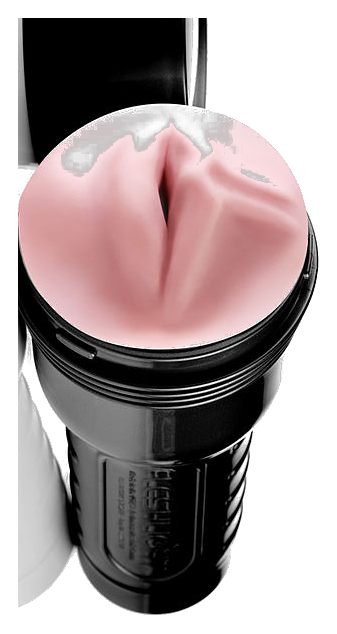
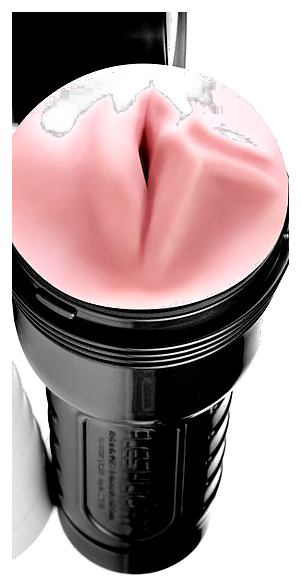
Fix cross-platform game physics

diff --git a/index.html b/index.html
@@ -295,6 +295,7 @@
         const penisResetLength = 15;
         const minimumPenisLength = 0;
         const fleshlightEventDurationMs = 3000;
+        const fleshlightEyePopDurationMs = 320;
         const fixedStepMs = 1000 / 60;
         const maxFrameDeltaMs = 100;
         const penisBaseLength = 15;
@@ -813,10 +814,11 @@
 
         function startFleshlightEvent(bird) {
             bird.eventState = {
+                phase: 'stroke',
                 elapsedMs: 0,
                 durationMs: fleshlightEventDurationMs,
                 strokePhase: 0.18,
-                strokeSpeed: 0.14,
+                strokeSpeed: 0.28,
                 lockedY: bird.y,
                 lockedRotation: bird.rotation
             };
@@ -831,20 +833,36 @@
             }
 
             bird.eventState.elapsedMs += fixedStepMs;
-            bird.eventState.strokeSpeed = Math.min(1.45, bird.eventState.strokeSpeed + 0.0085);
-            bird.eventState.strokePhase += bird.eventState.strokeSpeed;
             bird.y = bird.eventState.lockedY;
             bird.rotation = bird.eventState.lockedRotation;
             bird.velocity = 0;
 
+            if (bird.eventState.phase === 'stroke') {
+                bird.eventState.strokeSpeed = Math.min(2.9, bird.eventState.strokeSpeed + 0.017);
+                bird.eventState.strokePhase += bird.eventState.strokeSpeed;
+
+                if (bird.eventState.elapsedMs >= bird.eventState.durationMs) {
+                    bird.eventState.phase = 'eye-pop';
+                    bird.eventState.elapsedMs = 0;
+                    bird.eventState.durationMs = fleshlightEyePopDurationMs;
+                    bird.penisLength = penisResetLength;
+                    resetPenisRope(bird);
+                }
+            } else if (bird.eventState.elapsedMs >= bird.eventState.durationMs) {
+                bird.eventState = null;
+            }
+
             updateParticles(bird);
             updateJiggle(bird);
+        }
 
-            if (bird.eventState.elapsedMs >= bird.eventState.durationMs) {
-                bird.eventState = null;
-                bird.penisLength = penisResetLength;
-                resetPenisRope(bird);
+        function getBirdEyeScale(bird) {
+            if (!bird.eventState || bird.eventState.phase !== 'eye-pop') {
+                return 1;
             }
+
+            const progress = Math.min(1, bird.eventState.elapsedMs / bird.eventState.durationMs);
+            return 1 + Math.sin(progress * Math.PI) * 0.85;
         }
 
         function tryCollectFleshlight(bird) {
@@ -889,9 +907,7 @@
 
             const penisWidth = 8;
             const ballRadius = 8;
-            const eyeScale = bird.eventState
-                ? 1 + Math.sin(Math.min(bird.eventState.elapsedMs / 450, 1) * Math.PI) * 0.85
-                : 1;
+            const eyeScale = getBirdEyeScale(bird);
 
             // Calculate rope physics positions
             const ballsLength = 8; // Shorter - closer to body
@@ -955,7 +971,7 @@
             ctx.arc(tipX, tipY, penisWidth / 2 + 2, 0, Math.PI * 2);
             ctx.fill();
 
-            if (bird.eventState) {
+            if (bird.eventState && bird.eventState.phase === 'stroke') {
                 const progress = bird.eventState.elapsedMs / bird.eventState.durationMs;
                 const strokeT = Math.min(
                     0.9,
@@ -1042,13 +1058,23 @@
             bird.penisLength = Math.max(minimumPenisLength, bird.penisLength + delta);
         }
 
-        function createFleshlight(topHeight) {
+        function createFleshlight(viewportHeight, pipeSpacing) {
+            const horizontalMargin = 76;
+            const minOffsetX = pipeWidth + horizontalMargin;
+            const maxOffsetX = Math.max(minOffsetX + 20, pipeSpacing - horizontalMargin);
+            const spawnNearTop = Math.random() < 0.5;
+            const baseY = spawnNearTop
+                ? 90 + Math.random() * 70
+                : viewportHeight - 155 - Math.random() * 90;
+
             return {
-                offsetX: pipeWidth * 0.5,
-                y: topHeight + pipeGap * (0.3 + Math.random() * 0.4),
-                width: 34,
-                height: 64,
-                bobPhase: Math.random() * Math.PI * 2
+                offsetX: minOffsetX + Math.random() * (maxOffsetX - minOffsetX),
+                y: baseY,
+                width: 36,
+                height: 72,
+                bobPhase: Math.random() * Math.PI * 2,
+                bobAmplitude: 8,
+                lane: spawnNearTop ? 'top' : 'bottom'
             };
         }
 
@@ -1059,7 +1085,7 @@
 
             return {
                 x: pipe.x + pipe.fleshlight.offsetX,
-                y: pipe.fleshlight.y + Math.sin(frames * 0.08 + pipe.fleshlight.bobPhase) * 12,
+                y: pipe.fleshlight.y + Math.sin(frames * 0.08 + pipe.fleshlight.bobPhase) * pipe.fleshlight.bobAmplitude,
                 width: pipe.fleshlight.width,
                 height: pipe.fleshlight.height
             };
@@ -1070,13 +1096,14 @@
             const minHeight = 50;
             const maxHeight = viewportHeight - pipeGap - minHeight - 100;
             const topHeight = Math.random() * (maxHeight - minHeight) + minHeight;
-            const shouldSpawnFleshlight = Math.random() < getDifficultyConfig().fleshlightChance;
+            const difficulty = getDifficultyConfig();
+            const shouldSpawnFleshlight = Math.random() < difficulty.fleshlightChance;
 
             bird.pipes.push({
                 x: viewportWidth,
                 topHeight: topHeight,
                 scored: false,
-                fleshlight: shouldSpawnFleshlight ? createFleshlight(topHeight) : null
+                fleshlight: shouldSpawnFleshlight ? createFleshlight(viewportHeight, difficulty.pipeSpacing) : null
             });
         }
 
@@ -1166,7 +1193,10 @@
                 }
 
                 const item = getFleshlightPosition(pipe);
-                drawFleshlightSprite(item.x, item.y, Math.sin(frames * 0.05 + pipe.fleshlight.bobPhase) * 0.2, 1);
+                const rotation = pipe.fleshlight.lane === 'top'
+                    ? Math.sin(frames * 0.05 + pipe.fleshlight.bobPhase) * 0.12 - 0.12
+                    : Math.sin(frames * 0.05 + pipe.fleshlight.bobPhase) * 0.12 + 0.12;
+                drawFleshlightSprite(item.x, item.y, rotation, 1);
             });
         }
 
@@ -1191,7 +1221,10 @@
                 }
 
                 // Remove off-screen pipes
-                if (bird.pipes[i].x + pipeWidth < 0) {
+                const fleshlightEdge = bird.pipes[i].fleshlight
+                    ? bird.pipes[i].x + bird.pipes[i].fleshlight.offsetX + bird.pipes[i].fleshlight.width * 0.5
+                    : bird.pipes[i].x + pipeWidth;
+                if (fleshlightEdge < -40) {
                     bird.pipes.splice(i, 1);
                 }
             }

diff --git a/progress.md b/progress.md
@@ -21,6 +21,9 @@ Original prompt: Fix/implement the mobile view of this app so it works with touc
 - Fleshlight pickups now spawn randomly in the course, pause the run for about 3 seconds on contact, attach to the rope during a thrust animation, briefly widen the bird's eye, then disappear and reset rope length.
 - Replaced the placeholder-drawn fleshlight with a real product photo cutout stored locally at `assets/fleshlight-cropped.png`; `index.html` now preloads the image and falls back to the vector draw if the asset fails.
 - `assets/fleshlight-attribution.txt` records the Wikimedia Commons source and the crop/background-removal changes applied to the licensed image.
+- Refined the local cutout again so it reads cleaner at game scale and removed more of the leftover top-cap/edge artifacts from the first pass.
+- Fleshlight pickups now live in the horizontal space between pipe pairs instead of inside the pipe gap, and they are biased toward either the top or bottom of the lane to make them harder to collect.
+- The fleshlight thrust phase now runs at roughly 2x the previous speed, and the eye-pop moved to the end of the event so the run stays paused until the eyes return to normal.
 - Verification:
 - Desktop regression pass with the bundled Playwright game client completed successfully against `http://127.0.0.1:4173/index.html`.
 - Mobile-sized browser checks confirmed the mobile menu hides extra modes and shows fullscreen single-player copy.
@@ -33,3 +36,5 @@ Original prompt: Fix/implement the mobile view of this app so it works with touc
 - Desktop smoke checks confirmed `FAST` difficulty moved multiplayer pipes by `3.8` per fixed step and that one player's fleshlight event pauses the shared multiplayer course.
 - Manual screenshot inspection confirmed the fleshlight event renders on-screen as an attached 3-second animation with the bird held in place.
 - The image-backed fleshlight asset loaded successfully in-browser (`337x634`) and manual screenshots confirmed both the floating pickup and the attached event animation use the real cutout instead of the placeholder vector.
+- Follow-up browser checks confirmed between-pipes placement in the top/bottom bands, a final eye-pop phase (`phase: "eye-pop"`) after the thrust sequence, and resumed play only after that phase clears.
+- Post-change regression pass completed again after the fleshlight-refinement update; bundled Playwright output still showed stable single-player state with fixed-world physics.
